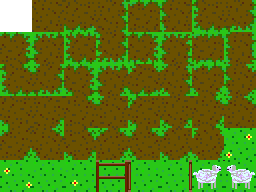
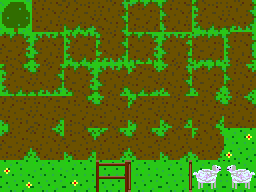
Created the town and puts in mechanisms for blocking (collisions). Not complete

Changed region(s): [[0.0, 0.0, 0.125, 0.1875]]

diff --git a/src/TownWindow.java b/src/TownWindow.java
@@ -11,13 +11,12 @@ import org.newdawn.slick.tiled.TiledMap;
 
 public class TownWindow extends HubWindow {
     private Double timer;
-//	private TiledMap bgImage;
 	private Event eventOne;
 	private Event eventTwo;
 	
     public TownWindow(Player[] players, float[] locp1, float[] locp2) throws SlickException {
         super(players, locp1, locp2);
-        
+
     }
 
     @Override
@@ -65,8 +64,22 @@ public class TownWindow extends HubWindow {
     public void init(GameContainer container, StateBasedGame game,
             Player[] players) throws SlickException {
         //bgImage = new Image("Assets/Hub 1/FinalImageRef.png");
-        this.bgImage = new TiledMap("Assets/TiledEditor/Hub1.tmx");
+        this.bgImage = new TiledMap("Assets/TiledEditor/DanielHub.tmx");
+        this.blocked = new boolean[bgImage.getWidth()][bgImage.getHeight()];
         super.init(container, game, players);
+        
+
+		for (int xAxis = 0; xAxis < bgImage.getWidth(); xAxis++) {
+			for (int yAxis = 0; yAxis < bgImage.getHeight(); yAxis++) {
+				int tileID = bgImage.getTileId(xAxis, yAxis, 0);
+				String value = bgImage.getTileProperty(tileID, "blocked",
+						"false");
+				System.out.println(value);
+				if ("true".equals(value)) {
+					blocked[xAxis][yAxis] = true;
+				}
+			}
+		}
         
         this.cameras = new Camera[2];
         cameras[0] = new Camera(container, bgImage, this.players[0]);

diff --git a/src/GameState.java b/src/GameState.java
@@ -144,7 +144,7 @@ public class GameState extends BasicGameState {
 		float[] p2WinSize = { container.getWidth() / 2 - 16,
 				container.getHeight() };
 		float[] p1WinPos = { 0, 0 };
-		float[] p2WinPos = { container.getWidth() / 2 + 32, 0 };
+		float[] p2WinPos = { container.getWidth() / 2 + 16, 0 };
 
 		HashMap<String, Integer> p1Buttons = new HashMap<String, Integer>();
 		p1Buttons.put("up", Input.KEY_W);

diff --git a/src/HubWindow.java b/src/HubWindow.java
@@ -25,6 +25,7 @@ public class HubWindow {
 	protected Camera[] cameras;	
 	private final int imageChange = 75;
 	protected TiledMap bgImage;
+	protected boolean[][] blocked;
 	
 	/*
 	 * Constructor that allows for providing of a stateID
